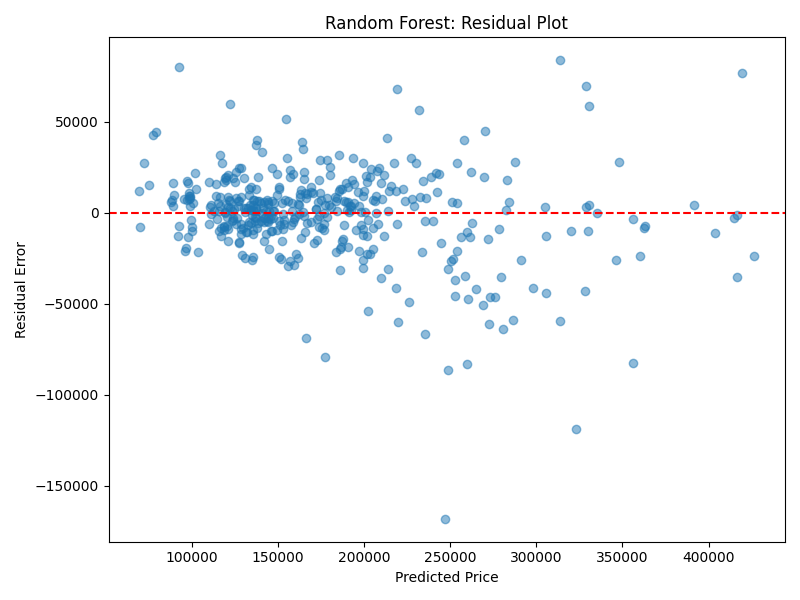
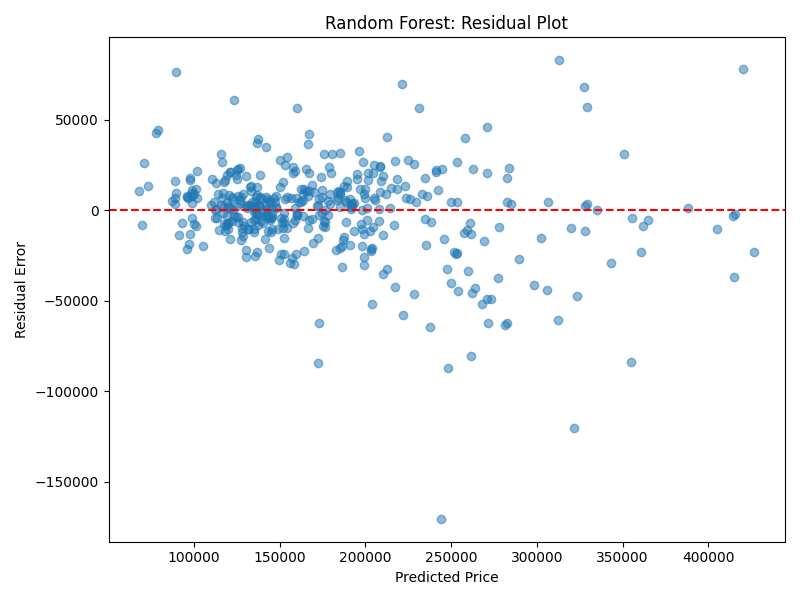
finalize

diff --git a/ames_dataset.py b/ames_dataset.py
@@ -14,7 +14,7 @@ class AmesHousingDataset:
 
         drop_cols = [
             "Id", "PID", 'Pool QC', 'Misc Feature', 'Alley', 'Fence',
-            'Condition 2', 'Utilities', 'Bsmt Exposure', 'Heating', 'Garage Qual'
+            'Condition 2', 'Utilities', 'Bsmt Exposure', 'Heating', 'Garage Qual','Neighborhood'
         ]
         df = df.drop(columns=drop_cols, errors='ignore')
 
@@ -68,7 +68,7 @@ class AmesHousingDataset:
 
         onehot_columns = [
             'MS SubClass', 'MS Zoning', 'Street', 'Lot Config',
-            'Neighborhood', 'Bldg Type', 'House Style', 'Roof Style',
+            'Bldg Type', 'House Style', 'Roof Style',
             'Exterior 1st', 'Exterior 2nd', 'Mas Vnr Type', 'Foundation',
             'Central Air', 'BsmtFin Type 1', 'BsmtFin Type 2',
             'Garage Type', 'Garage Finish', 'Paved Drive', 'Sale Type', 'Sale Condition'
